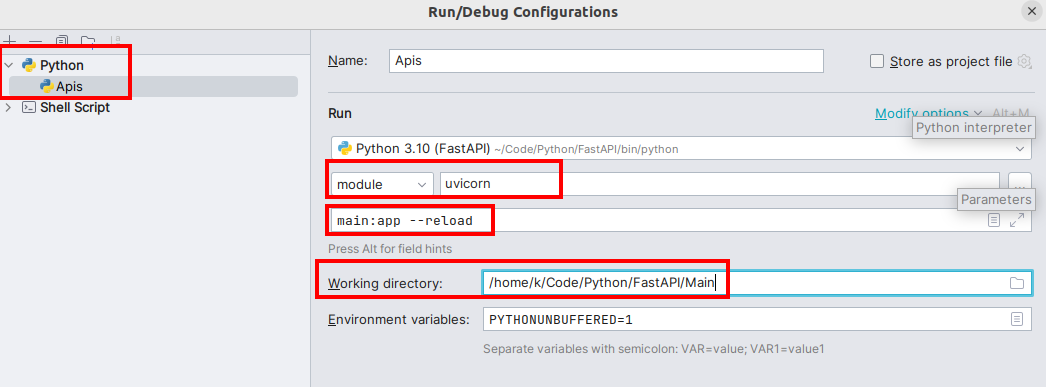
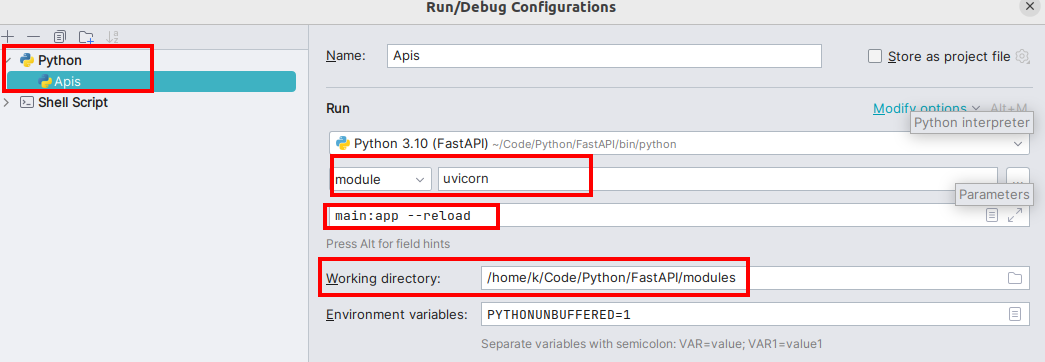
add changes in reame file

diff --git a/ReadMe.md b/ReadMe.md
@@ -5,15 +5,14 @@
  **uvicorn main:app --reload** 
  
 # Run app by Pycharm Shell Settings
-
-Add select shell script add executable command with **accurate working directory path**
+* Make sure in specific location your main.py should exist with @app decorator
+* Add select shell script add executable command with **accurate working directory path**
 
 ![img.png](img.png)
 
 # Run app by Pycharm Python App Settings
-
-Only this method will **allow to debug application in pyCharm**
-
-select python, add module and command related to module and **accurate working directory path**
+* Make sure in specific location your main.py should exist with @app decorator
+* Only this method will **allow to debug application in pyCharm**
+* select python, add module and command related to module and **accurate working directory path**
 
 ![img_1.png](img_1.png)
